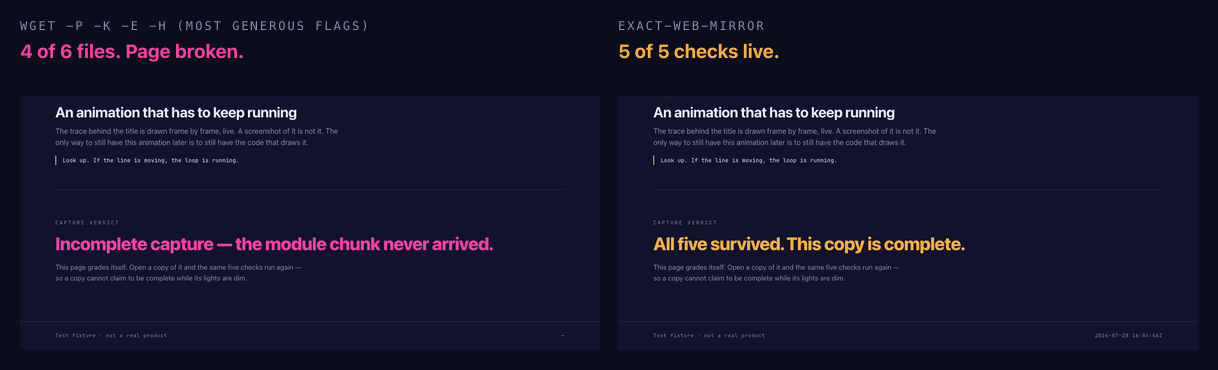
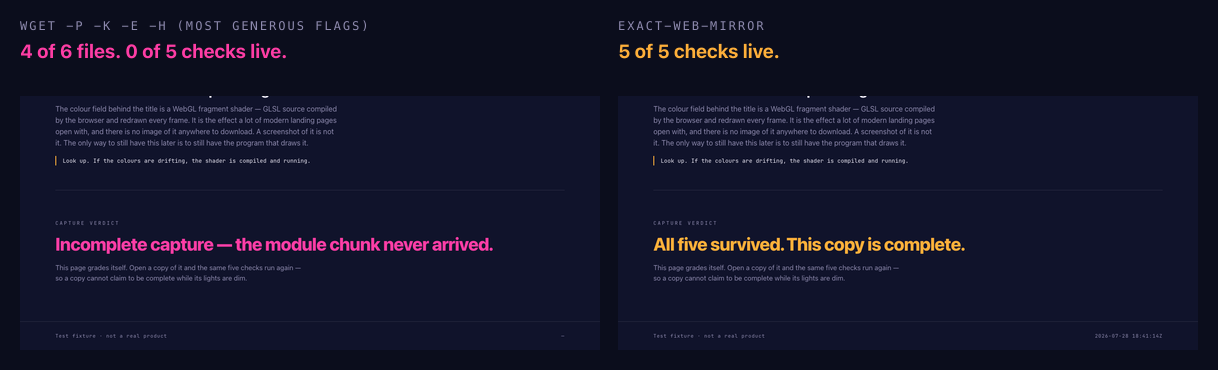
Upgrade the demo hero to a WebGL shader; add what the tool has been run against
The demo's hero was a 2D line trace, which read as a test fixture rather than
as the kind of animation this tool exists to preserve. It is now a WebGL
fragment shader: domain-warped fractal noise ramped through the page's three
inks, compiled from GLSL at run time and redrawn every frame. That is a harder
capture target than anything else in the fixture, because the image exists only
while the program runs — there is no file of it to fetch.

Fix a self-consistency bug in the fixture's own grading. The canvas check was
read once before the shader had finished compiling and again after the awaits,
so the dot could report "stopped" while the counter said 5/5. All five checks
now resolve to a single value before anything is reported; a page that grades
itself must not contradict itself.

Re-verified after both changes: heights 0px apart on desktop and mobile, mean
band diff 0.39% / 0.13%, confined to the animated regions. Media regenerated
from that capture, recorded with the origin servers stopped.

The README now names the six production landing pages the pipeline was hardened
against and links to them. The captures themselves are not distributed. The
table reports only what the retained logs actually contain — page errors and
blocked outbound attempts per site — and says plainly that the band-diff numbers
from those runs were never persisted, so the repo cannot back a pixel-fidelity
claim for them. The demo fixture is the reproducible one.

diff --git a/demo/site/index.html b/demo/site/index.html
@@ -122,12 +122,14 @@
         <span class="trap-dot" aria-hidden="true"></span>
         <span class="trap-state">checking…</span>
       </div>
-      <h2 class="trap-name">An animation that has to keep running</h2>
+      <h2 class="trap-name">A shader that has to keep running</h2>
       <p class="trap-body">
-        The trace behind the title is drawn frame by frame, live. A screenshot of it is not it. The
-        only way to still have this animation later is to still have the code that draws it.
+        The colour field behind the title is a WebGL fragment shader — GLSL source compiled by the
+        browser and redrawn every frame. It is the effect a lot of modern landing pages open with,
+        and there is no image of it anywhere to download. A screenshot of it is not it. The only way
+        to still have this later is to still have the program that draws it.
       </p>
-      <p class="trap-tell">Look up. If the line is moving, the loop is running.</p>
+      <p class="trap-tell">Look up. If the colours are drifting, the shader is compiled and running.</p>
     </li>
 
   </ol>
@@ -150,46 +152,116 @@
 </footer>
 
 <script type="module">
-  // TRAP 05 — the hero trace. Drawn live; a still frame is not a substitute for the code.
+  // TRAP 05 — a WebGL fragment shader, compiled from source at run time and redrawn every frame.
+  // This is the shape of effect modern landing pages use for their hero, and it is the worst case
+  // for any copier that keeps pixels instead of code: the image exists only while the program runs.
+  // There is no image file to download anywhere — a screenshot of this is not this.
   const cv = document.getElementById('trace');
-  const ctx = cv.getContext('2d');
   const reduce = matchMedia('(prefers-reduced-motion: reduce)').matches;
-  let w = 0, h = 0, t = 0, running = false;
+  let running = false;
 
-  function size() {
-    const r = Math.min(devicePixelRatio || 1, 2);
-    w = cv.clientWidth; h = cv.clientHeight;
-    cv.width = Math.round(w * r); cv.height = Math.round(h * r);
-    ctx.setTransform(r, 0, 0, r, 0, 0);
+  const VERT = `attribute vec2 p; void main(){ gl_Position = vec4(p, 0.0, 1.0); }`;
+
+  // Domain-warped fractal noise, ramped through the page's three ink colours.
+  const FRAG = `
+  precision highp float;
+  uniform vec2 u_res; uniform float u_t;
+
+  vec2 hash(vec2 p){
+    p = vec2(dot(p, vec2(127.1, 311.7)), dot(p, vec2(269.5, 183.3)));
+    return -1.0 + 2.0 * fract(sin(p) * 43758.5453123);
+  }
+  float noise(vec2 p){
+    vec2 i = floor(p), f = fract(p);
+    vec2 u = f * f * (3.0 - 2.0 * f);
+    return mix(mix(dot(hash(i + vec2(0.0,0.0)), f - vec2(0.0,0.0)),
+                   dot(hash(i + vec2(1.0,0.0)), f - vec2(1.0,0.0)), u.x),
+               mix(dot(hash(i + vec2(0.0,1.0)), f - vec2(0.0,1.0)),
+                   dot(hash(i + vec2(1.0,1.0)), f - vec2(1.0,1.0)), u.x), u.y);
+  }
+  float fbm(vec2 p){
+    float v = 0.0, a = 0.5;
+    for (int i = 0; i < 5; i++){ v += a * noise(p); p *= 2.02; a *= 0.5; }
+    return v;
   }
 
-  // A settling waveform: three sines beating against each other, with the newest sample brightest.
-  function frame() {
-    running = true;
-    ctx.clearRect(0, 0, w, h);
-    const mid = h * 0.5;
-    for (let pass = 0; pass < 3; pass++) {
-      ctx.beginPath();
-      for (let x = 0; x <= w; x += 2) {
-        const p = x / w;
-        const decay = Math.exp(-p * 1.4);
-        const y = mid
-          + Math.sin(p * 15 - t * 1.6 + pass * 1.1) * 44 * decay
-          + Math.sin(p * 41 + t * 0.9 - pass * 0.6) * 13 * decay
-          + Math.sin(p * 6.5 + t * 0.35) * 9;
-        x === 0 ? ctx.moveTo(x, y) : ctx.lineTo(x, y);
-      }
-      ctx.strokeStyle = ['rgba(255,176,58,0.85)', 'rgba(255,176,58,0.28)', 'rgba(255,61,165,0.22)'][pass];
-      ctx.lineWidth = pass === 0 ? 1.6 : 1;
-      ctx.stroke();
-    }
-    t += 0.016;
-    if (!reduce) requestAnimationFrame(frame);
+  void main(){
+    vec2 uv = (gl_FragCoord.xy - 0.5 * u_res) / u_res.y;
+    float t = u_t * 0.06;
+
+    // warp the sampling domain by another noise field, twice — this is what makes it flow
+    vec2 q = vec2(fbm(uv * 1.6 + vec2(0.0, t)), fbm(uv * 1.6 + vec2(5.2, 1.3 - t)));
+    vec2 r = vec2(fbm(uv * 1.6 + 3.5 * q + vec2(1.7, 9.2) + 0.9 * t),
+                  fbm(uv * 1.6 + 3.5 * q + vec2(8.3, 2.8) - 0.7 * t));
+    float f = fbm(uv * 1.6 + 3.2 * r);
+
+    vec3 ink    = vec3(0.063, 0.075, 0.169);
+    vec3 signal = vec3(1.000, 0.690, 0.227);
+    vec3 trace  = vec3(1.000, 0.239, 0.647);
+
+    vec3 col = mix(ink, trace,  smoothstep(-0.35, 0.55, f));
+    col = mix(col, signal, smoothstep(0.05, 0.62, length(r)));
+    col = mix(col, ink,    smoothstep(0.55, 2.10, length(uv)));   // gentle vignette; CSS masks edges
+    col += 0.03 * fbm(uv * 90.0);                                  // grain, kills banding
+    gl_FragColor = vec4(col, 1.0);
+  }`;
+
+  const gl = cv.getContext('webgl', { antialias: false, alpha: true, powerPreference: 'low-power' });
+
+  function compile(type, src) {
+    const s = gl.createShader(type);
+    gl.shaderSource(s, src); gl.compileShader(s);
+    if (!gl.getShaderParameter(s, gl.COMPILE_STATUS)) throw new Error(gl.getShaderInfoLog(s));
+    return s;
   }
 
-  addEventListener('resize', size);
-  size();
-  frame();
+  function start() {
+    const prog = gl.createProgram();
+    gl.attachShader(prog, compile(gl.VERTEX_SHADER, VERT));
+    gl.attachShader(prog, compile(gl.FRAGMENT_SHADER, FRAG));
+    gl.linkProgram(prog);
+    if (!gl.getProgramParameter(prog, gl.LINK_STATUS)) throw new Error(gl.getProgramInfoLog(prog));
+    gl.useProgram(prog);
+
+    gl.bindBuffer(gl.ARRAY_BUFFER, gl.createBuffer());
+    gl.bufferData(gl.ARRAY_BUFFER, new Float32Array([-1,-1, 3,-1, -1,3]), gl.STATIC_DRAW);
+    const loc = gl.getAttribLocation(prog, 'p');
+    gl.enableVertexAttribArray(loc);
+    gl.vertexAttribPointer(loc, 2, gl.FLOAT, false, 0, 0);
+
+    const uRes = gl.getUniformLocation(prog, 'u_res');
+    const uT = gl.getUniformLocation(prog, 'u_t');
+
+    const size = () => {
+      const r = Math.min(devicePixelRatio || 1, 1.5);
+      cv.width = Math.round(cv.clientWidth * r);
+      cv.height = Math.round(cv.clientHeight * r);
+      gl.viewport(0, 0, cv.width, cv.height);
+    };
+    addEventListener('resize', size);
+    size();
+
+    let t0 = null;
+    const frame = (ts) => {
+      if (t0 === null) t0 = ts;
+      running = true;
+      gl.uniform2f(uRes, cv.width, cv.height);
+      gl.uniform1f(uT, (ts - t0) / 1000);
+      gl.drawArrays(gl.TRIANGLES, 0, 3);
+      if (!reduce) requestAnimationFrame(frame);
+    };
+    requestAnimationFrame(frame);
+  }
+
+  try {
+    if (!gl) throw new Error('no webgl context');
+    start();
+  } catch (e) {
+    // Never let a shader failure take the page down — report it and let trap 05 read as stopped.
+    console.error('[hard-page] shader failed:', e);
+    cv.style.display = 'none';
+  }
+
   window.__traceRunning = () => running;
 </script>
 

diff --git a/demo/cdn/style.css b/demo/cdn/style.css
@@ -47,10 +47,18 @@ body { -webkit-font-smoothing: antialiased; line-height: 1.55; }
 .hero { position: relative; padding: 108px 0 88px; overflow: hidden; }
 .hero-canvas {
   position: absolute; inset: 0; width: 100%; height: 100%;
-  opacity: 0.55; pointer-events: none;
-  mask-image: linear-gradient(to bottom, transparent, #000 22%, #000 68%, transparent);
+  opacity: 0.92; pointer-events: none;
+  /* fade the field back into the page at the top and bottom edges so it reads as part of the
+     document rather than a pasted-in panel */
+  mask-image: linear-gradient(to bottom, transparent, #000 18%, #000 74%, transparent);
 }
-.hero-inner { position: relative; }
+/* scrim: the headline sits left, so darken left-to-right and let the colour field carry the right */
+.hero::after {
+  content: ''; position: absolute; inset: 0; pointer-events: none;
+  background: linear-gradient(102deg,
+    rgba(16,19,43,0.94) 8%, rgba(16,19,43,0.80) 30%, rgba(16,19,43,0.30) 55%, rgba(16,19,43,0) 76%);
+}
+.hero-inner { position: relative; z-index: 1; }
 .eyebrow {
   font-family: var(--mono); font-size: 11px; letter-spacing: 0.26em;
   text-transform: uppercase; color: var(--signal); margin: 0 0 22px;

diff --git a/README.md b/README.md
@@ -161,6 +161,37 @@ share the results freely. 🆓
 cd demo && node serve-demo.mjs --open        # then capture it from another terminal
 ```
 
+## 🌐 What it's been run against
+
+The demo fixture is deliberately hostile, but it's synthetic. The pipeline was built and hardened
+against six real production landing pages — modern JavaScript-app sites with hashed chunks,
+cross-origin CDN assets, web fonts, and hero video:
+
+[mistral.ai](https://mistral.ai/) · [moonshot.ai](https://www.moonshot.ai/) ·
+[lambda.ai](https://lambda.ai/) · [kore.ai](https://kore.ai/) ·
+[sierra.ai](https://sierra.ai/) · [nebius.com](https://nebius.com/)
+
+**Those captures aren't distributed here — only the tool is.** What the retained logs show, from
+replaying each copy offline with all non-localhost traffic blocked (desktop pass):
+
+| Site | Page errors | Blocked outbound attempts |
+|---|---|---|
+| mistral.ai | 0 | 0 |
+| moonshot.ai | 0 | 0 |
+| sierra.ai | 0 | 0 |
+| lambda.ai | 0 | 1 |
+| nebius.com | 0 | 1 |
+| kore.ai | 2 | 4 |
+
+Every copy rendered and ran with no network at all. The blocked attempts are analytics and
+tag-manager beacons that keep firing offline and go nowhere — the intended behaviour, not a failure.
+
+Being straight about the limits of that evidence: those runs printed their band-by-band diff numbers
+to the console and never wrote them to disk, so **this repository can't back a pixel-fidelity claim
+for them.** The capture with complete, reproducible numbers is the demo fixture above — 0px height
+difference on both viewports, 0.39% / 0.13% mean band diff confined to the animated regions — and
+you can re-run that one yourself in about ten minutes. 🔁
+
 ## 🔧 Running the stages yourself
 
 `archive.mjs` is `record` → `extract-media` → `export`; `--verify` adds the last stage.
